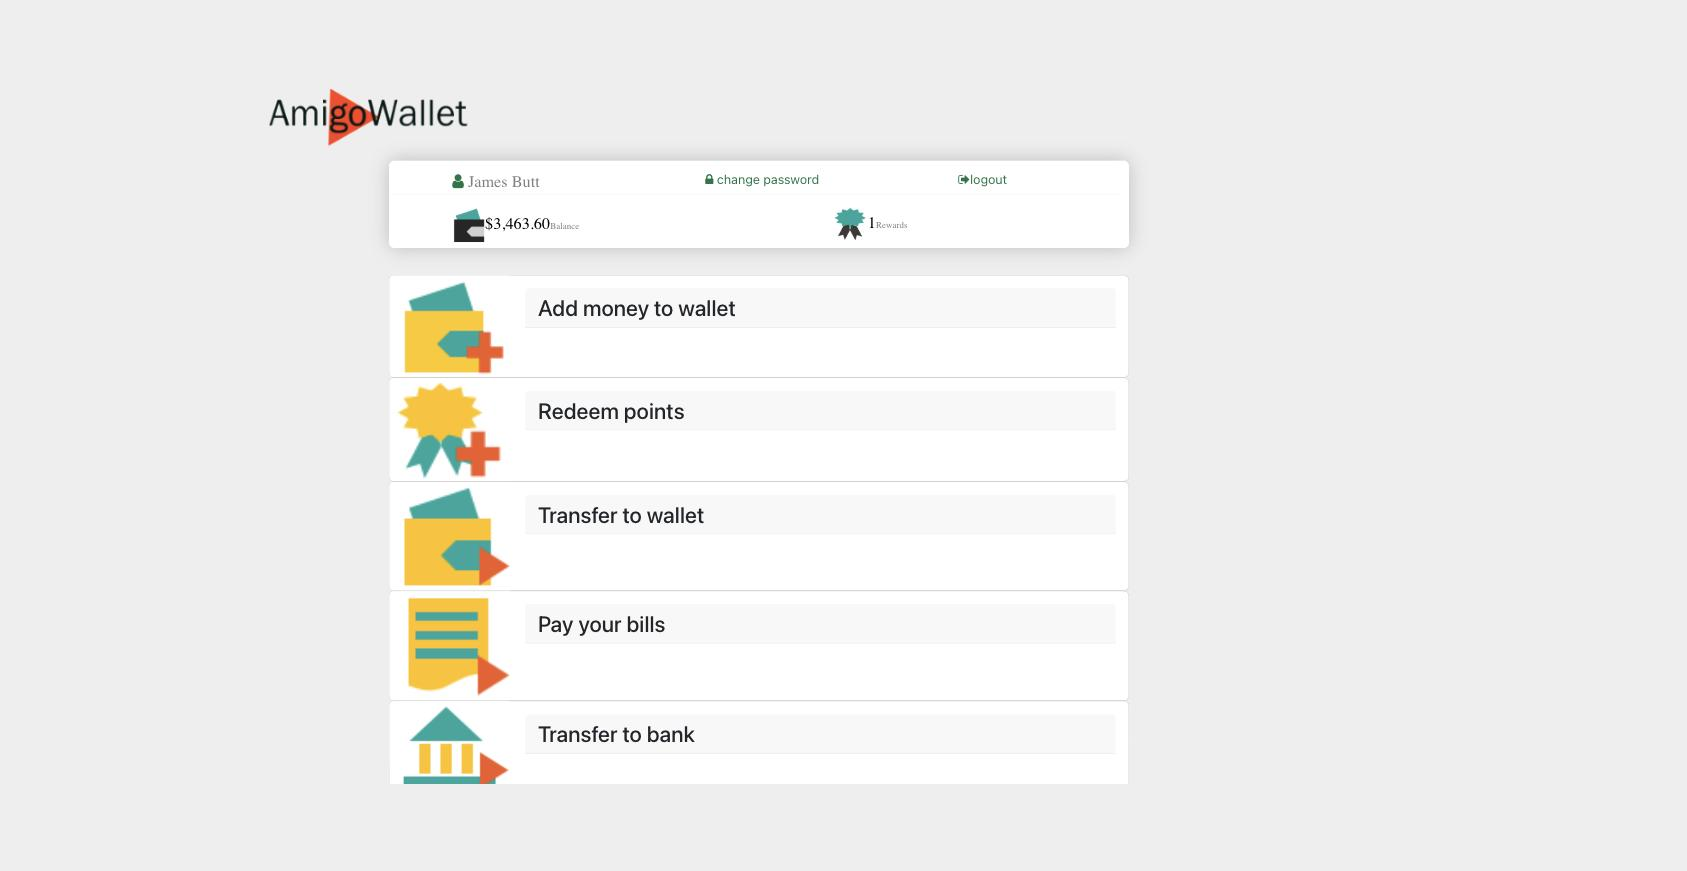
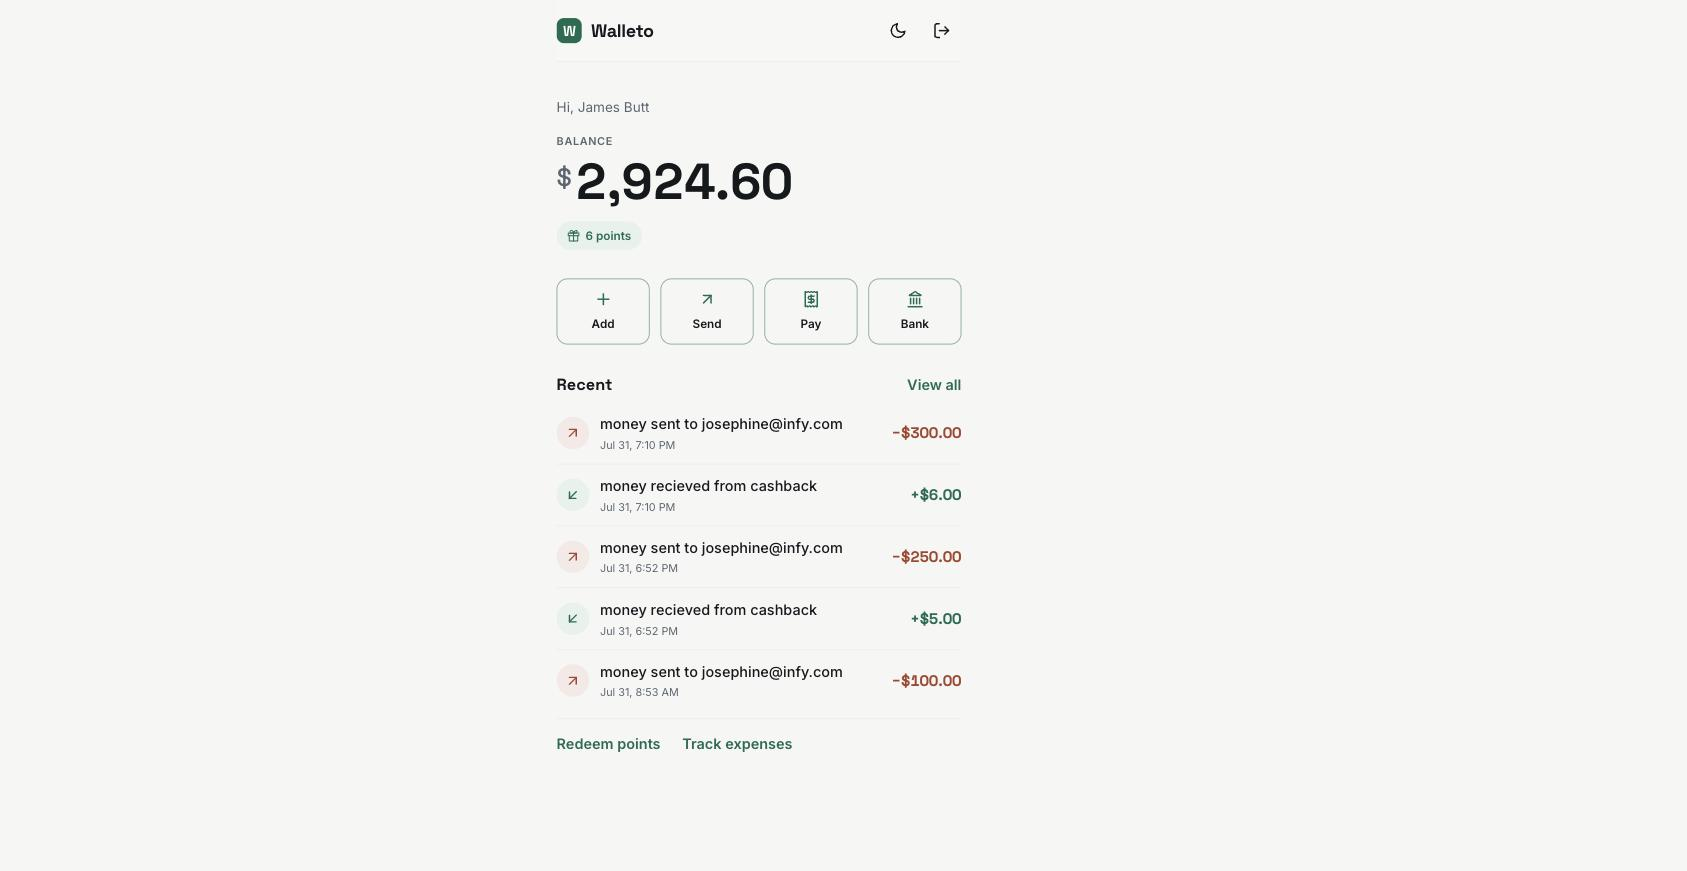
docs: refresh screenshots to the Walleto revamp (light + dark)

diff --git a/README.md b/README.md
@@ -98,7 +98,7 @@ graph TD
 - **Bank integration** — load money from a linked bank via debit card or net banking, and withdraw to a bank account. Every bank leg is orchestrated server-side.
 - **History** — full, filterable transaction history.
 
-![Wallet-to-wallet transfer with instant balance update, cashback, and reward points](docs/screenshots/transfer.jpg)
+![Walleto dashboard in dark theme](docs/screenshots/dashboard-dark.jpg)
 
 ---
 
